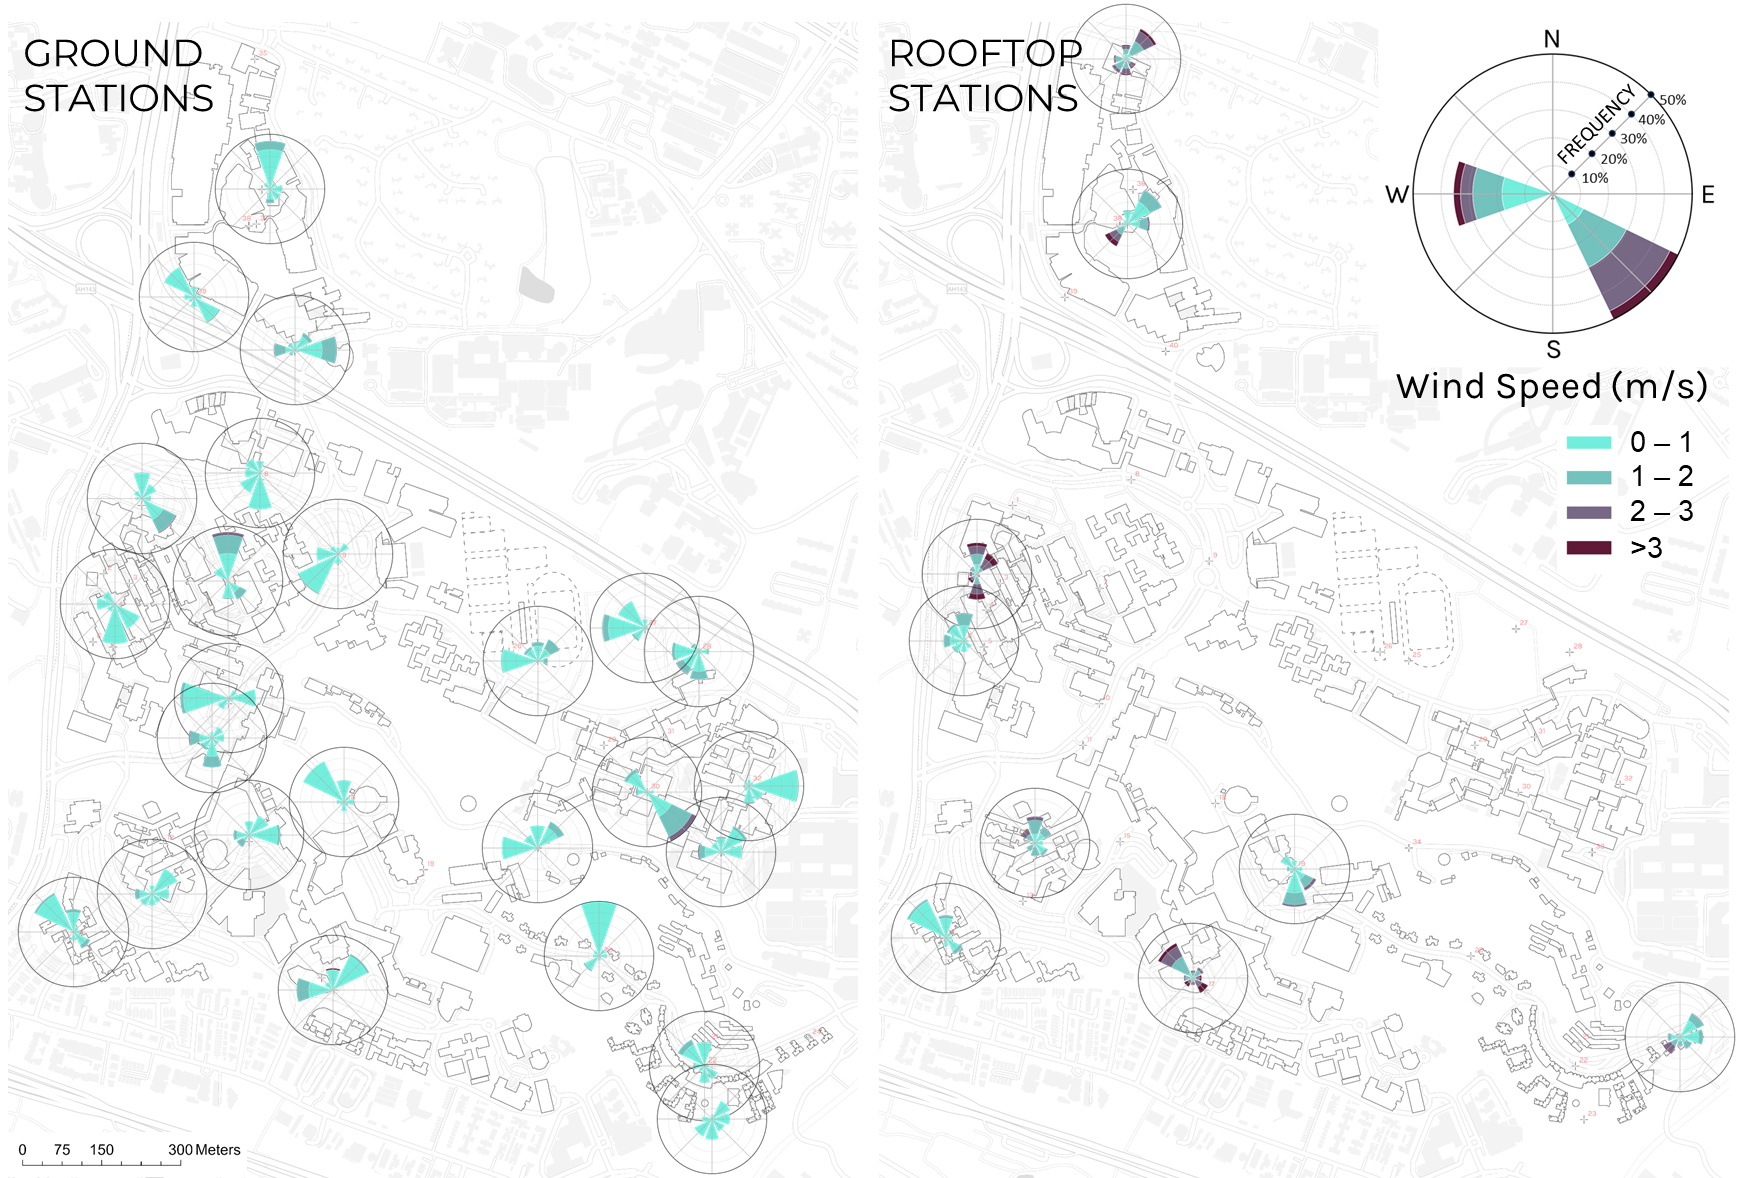
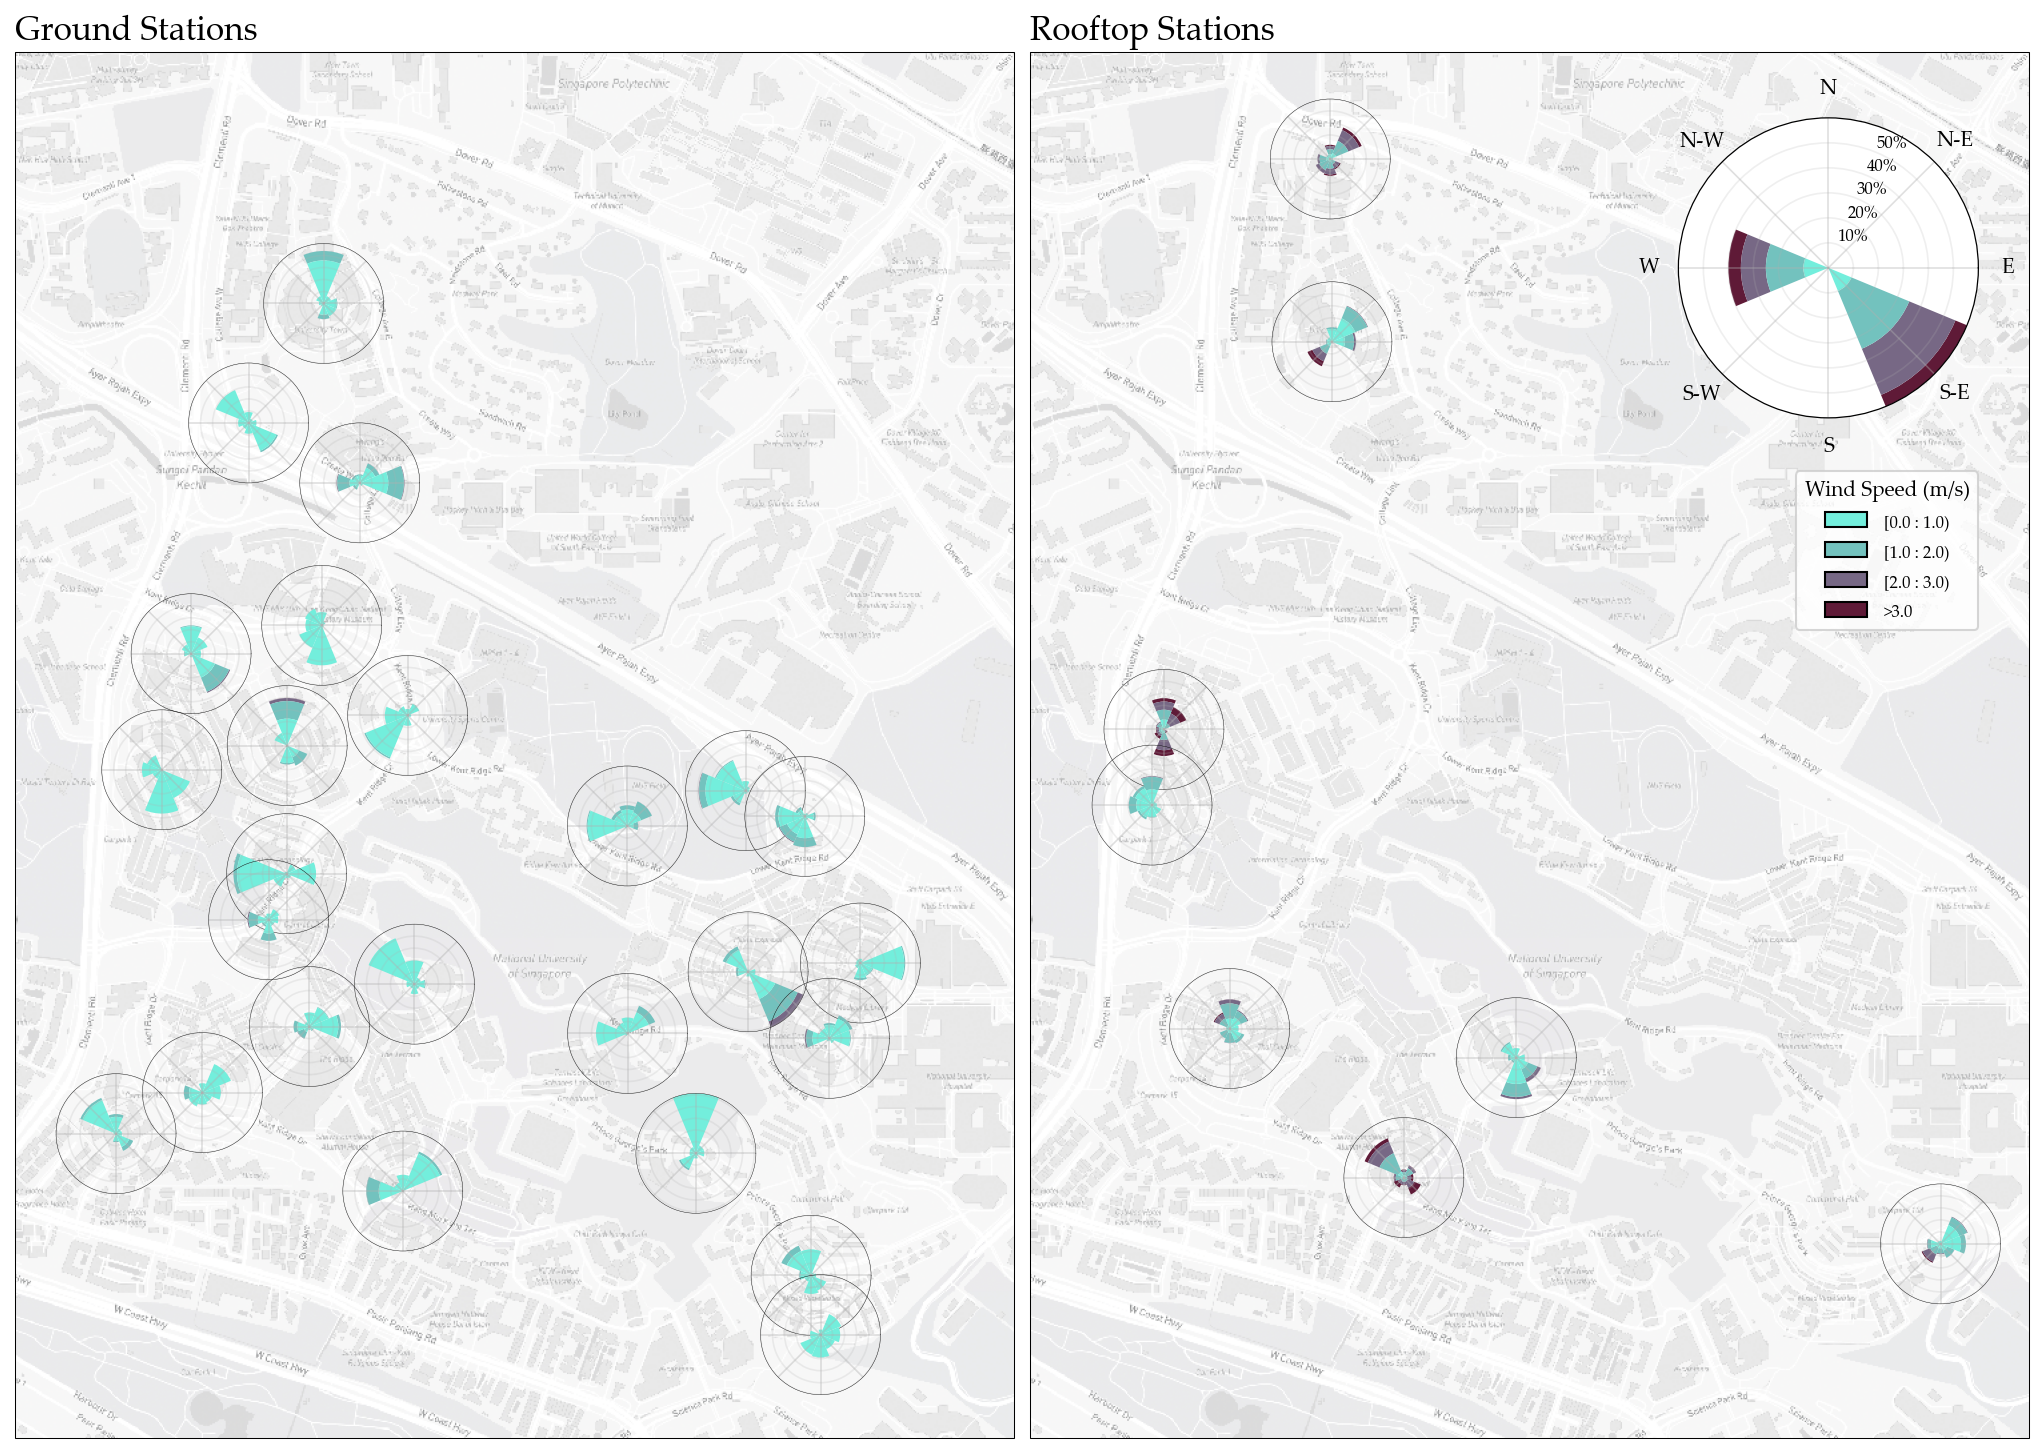
Windrose code
Add windrose to 3_plot_weather_data.py

diff --git a/code/3_plot_weather_data.py b/code/3_plot_weather_data.py
@@ -7,12 +7,16 @@ import matplotlib.cm as cm
 from matplotlib.gridspec import GridSpec
 from matplotlib.lines import Line2D
 from matplotlib.patches import Patch
-from matplotlib.ticker import FormatStrFormatter
-from matplotlib.colors import Normalize
+from matplotlib.ticker import FormatStrFormatter, StrMethodFormatter
+from matplotlib.colors import Normalize, ListedColormap
 from matplotlib.cm import ScalarMappable
+from mpl_toolkits.axes_grid1.inset_locator import inset_axes
 import seaborn as sns
 import contextily as ctx
+import cartopy.crs as ccrs
+import cartopy.io.img_tiles as cimgt
 import glob, os, calendar
+import windrose
 
 # ── Style ─────────────────────────────────────────────────────────────────────
 from matplotlib import font_manager as _fm
@@ -44,6 +48,8 @@ TWILIGHT  = cm.twilight_shifted
 MONTH_LABELS = [calendar.month_abbr[m] for m in range(1, 13)]
 
 VAR_COLORS = [VIRIDIS(x) for x in np.linspace(0.08, 0.92, 6)]
+
+MAPBOX_APIKEY = None
 
 # ── Variable definitions ──────────────────────────────────────────────────────
 # (col, short_label, unit, line_color, fig6/fig10_cmap)
@@ -151,6 +157,12 @@ def draw_station_windrose(ax, lon, lat, ws_series, wd_series,
 
     ax.scatter([lon], [lat], s=5, c="white", zorder=6, linewidths=0)
 
+def getWSid(num):
+    if num >= 10:
+        return "WS"+str(num)
+    else:
+        return "WS0"+str(num)
+
 # ═════════════════════════════════════════════════════════════════════════════
 # Fig 6 — Diurnal × Seasonal Climatology  (Ladybug-style horizontal strips)
 # ═════════════════════════════════════════════════════════════════════════════
@@ -229,9 +241,9 @@ print(f"Saved: {out6}")
 plt.close(fig6)
 
 # ═════════════════════════════════════════════════════════════════════════════
-# Fig 4 — Network Envelope Time Series  (monthly, with median)
+# Fig 7 — Network Envelope Time Series  (monthly, with median)
 # ═════════════════════════════════════════════════════════════════════════════
-print("Building Fig 4...")
+print("Building Fig 7...")
 
 fig7, axes4 = plt.subplots(5, 2, figsize=(15, 12), sharex=True)
 fig7.patch.set_facecolor("white")
@@ -365,7 +377,98 @@ print(f"Saved: {out7}")
 plt.close(fig7)
 
 # ═════════════════════════════════════════════════════════════════════════════
-# Fig 10 — Spatial Variability Maps  (5 panels: Wind Dir removed — encoded in rose)
+# Fig 8 — Windrose
+# ═════════════════════════════════════════════════════════════════════════════
+print("Building Fig 8...")
+fig8 = plt.figure(figsize=(32, 12))
+minlon, maxlon, minlat, maxlat = (103.7685, 103.784, 1.2885, 1.31)
+proj = ccrs.PlateCarree()
+
+main_ax_ground = fig8.add_subplot(1, 2, 1, projection=proj)
+main_ax_ground.set_extent([minlon, maxlon, minlat, maxlat], crs=proj)
+plt.setp(main_ax_ground.spines.values(), linewidth=0.5)
+main_ax_ground.set_title("Ground Stations", loc="left", fontsize=16)
+
+main_ax_roof = fig8.add_subplot(1, 1, 1, projection=proj)
+main_ax_roof.set_extent([minlon, maxlon, minlat, maxlat], crs=proj)
+plt.setp(main_ax_roof.spines.values(), linewidth=0.5)
+main_ax_roof.set_title("Rooftop Stations", loc="left", fontsize=16)
+
+try: 
+    request = cimgt.MapboxTiles(MAPBOX_APIKEY,"light-v11")
+    main_ax_ground.add_image(request, 16)
+    main_ax_roof.add_image(request, 16)
+except Exception as e:
+    print(f'  basemap skipped: {e}')
+
+bins = np.arange(0, 4, 1)
+colors = [ (115/255,238/255,220/255,1), (115/255,194/255,190/255,1), (119/255,104/255,133/255,1), (95/255,26/255,55/255,1) ]
+cmap = ListedColormap(colors)
+
+excl_stations = [3, 5, 21, 26, 29, 31, 38]
+wslist = [i for i in range(1,41) if i not in excl_stations]
+for i in wslist:
+    wsid = getWSid(i)
+    wsdf = all_df.copy()
+    wsdf = wsdf[wsdf["station"]==wsid]
+    wstype = wsdf['Type'].to_list()[0]
+    ws_lon = wsdf['Longitude'].to_list()[0]
+    ws_lat = wsdf['Latitude'].to_list()[0]
+
+    ax_curr = {}
+    if wstype == "Ground":
+        ax_curr = main_ax_ground
+    elif wstype.startswith("Roof"):
+        ax_curr = main_ax_roof
+
+    df.dropna(subset=["WindSpeed Ave (m/s)", "WindDir Ave (degrees)"])
+    windspeed = wsdf["WindSpeed Ave (m/s)"].values
+    winddir = wsdf["WindDir Ave (degrees)"].values
+
+    wrax_curr = inset_axes(
+        ax_curr,
+        width=0.8,
+        height=0.8,
+        loc="center",
+        bbox_to_anchor=(ws_lon, ws_lat),
+        bbox_transform=ax_curr.transData,
+        axes_class=windrose.WindroseAxes,
+    )
+    wrax_curr.bar(winddir, windspeed, normed=True, nsector=8, opening=1, cmap=cmap, bins=bins)
+    wrax_curr.tick_params(labelleft=False, labelbottom=False)
+    wrax_curr.set_yticks(np.arange(10, 60, step=10))
+    wrax_curr.set_yticklabels(np.arange(10, 60, step=10))
+    wrax_curr.yaxis.grid(alpha=0.2)
+    wrax_curr.xaxis.grid(alpha=0.4)
+    wrax_curr.set_facecolor((1, 1, 1, 0))
+    plt.setp(wrax_curr.spines.values(), linewidth=0.2)
+
+## LEGEND
+wrax_legend = inset_axes(
+    main_ax_roof,
+    width=2,  # size in inches
+    height=2,  # size in inches
+    bbox_to_anchor=(-0.04,-0.04,1,1),
+    axes_class=windrose.WindroseAxes,  # specify the class of the axe
+    bbox_transform=main_ax_roof.transAxes
+)
+sample_wd = [120,120,120,120,120,120,120,120,120,120,120,120, 270,270,270,270,270,270,270,270]
+sample_ws = [0,0,1,1,1,1,1,2,2,2,2,3, 0,0,1,1,1,2,2,3]
+wrax_legend.bar(sample_wd, sample_ws, normed=True, nsector=8, opening=1, cmap=cmap, bins=bins)
+wrax_legend.set_yticks(np.arange(10, 60, step=10))
+wrax_legend.set_yticklabels(np.arange(10, 60, step=10), fontsize="8")
+wrax_legend.yaxis.set_major_formatter(StrMethodFormatter("{x}%"))
+wrax_legend.yaxis.grid(alpha=0.2)
+wrax_legend.xaxis.grid(alpha=0.4)
+wrax_legend.set_legend(title="Wind Speed (m/s)", bbox_to_anchor=(0.4, -0.7))
+
+out8 = os.path.join(ROOT, "figures", "Fig8_WindRose_Map.png")
+fig8.savefig(out8, bbox_inches = "tight")
+print(f"Saved: {out8}")
+plt.close(fig8)
+
+# ═════════════════════════════════════════════════════════════════════════════
+# Fig 11 — Spatial Variability Maps  (5 panels: Wind Dir removed — encoded in rose)
 #   Color = annual mean value  (unique colormap per variable)
 #   Size  = data completeness for that variable at each station
 #   Wind Speed panel = geographic mini wind roses (speed + direction)
@@ -497,4 +600,4 @@ fig10.savefig(out10, dpi=300, bbox_inches="tight")
 print(f"Saved: {out10}")
 plt.close(fig10)
 
-print("\nAll 3 figures complete.")
+print("\nAll figures complete.")
